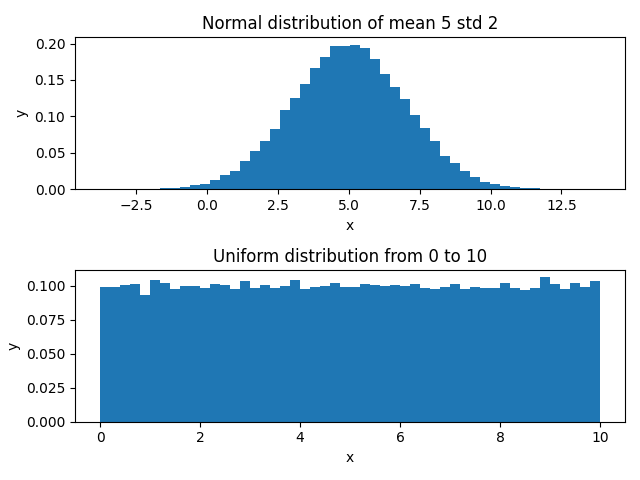
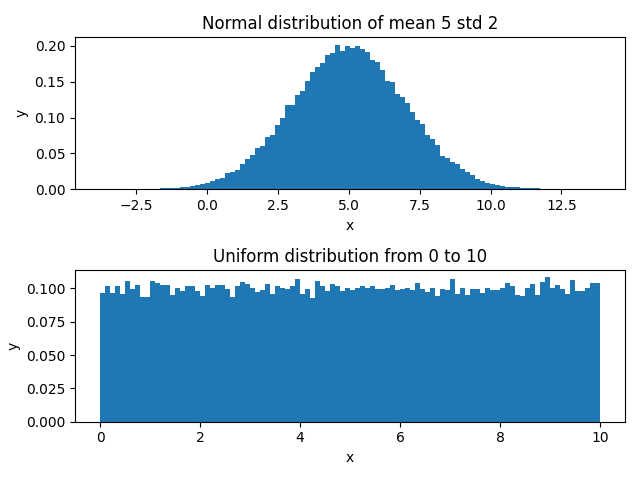
add exercise00

diff --git a/exercise00/myfirstscript.py b/exercise00/myfirstscript.py
@@ -11,7 +11,7 @@ class SolutionExercise00(object):
     def function_f(x: np.ndarray):
         return np.sin(x) * np.cos(x)
 
-    def plottting(self, interval, save_dir=None):
+    def plotting(self, interval, save_dir=None):
         assert isinstance(interval, tuple)
         fig = plt.figure()
         ax = fig.add_subplot()
@@ -41,12 +41,12 @@ class SolutionExercise00(object):
         ax1 = fig.add_subplot(2, 1, 1)
         ax2 = fig.add_subplot(2, 1, 2)
 
-        ax1.hist(normal_x, 50, density=True)
+        ax1.hist(normal_x, 100, density=True)
         ax1.set_xlabel('x')
         ax1.set_ylabel('y')
         ax1.set_title('Normal distribution of mean 5 std 2')
 
-        ax2.hist(uniform_x, 50, density=True)
+        ax2.hist(uniform_x, 100, density=True)
         ax2.set_xlabel('x')
         ax2.set_ylabel('y')
         ax2.set_title('Uniform distribution from 0 to 10')
@@ -61,5 +61,5 @@ class SolutionExercise00(object):
 
 if __name__ == "__main__":
     sol = SolutionExercise00()
-    sol.plottting((-2*math.pi, 2*math.pi), 'function_plot.png')
+    sol.plotting((-2*math.pi, 2*math.pi), 'function_plot.png')
     sol.random_generate(seed=49, save_dir='random_plot.png')
